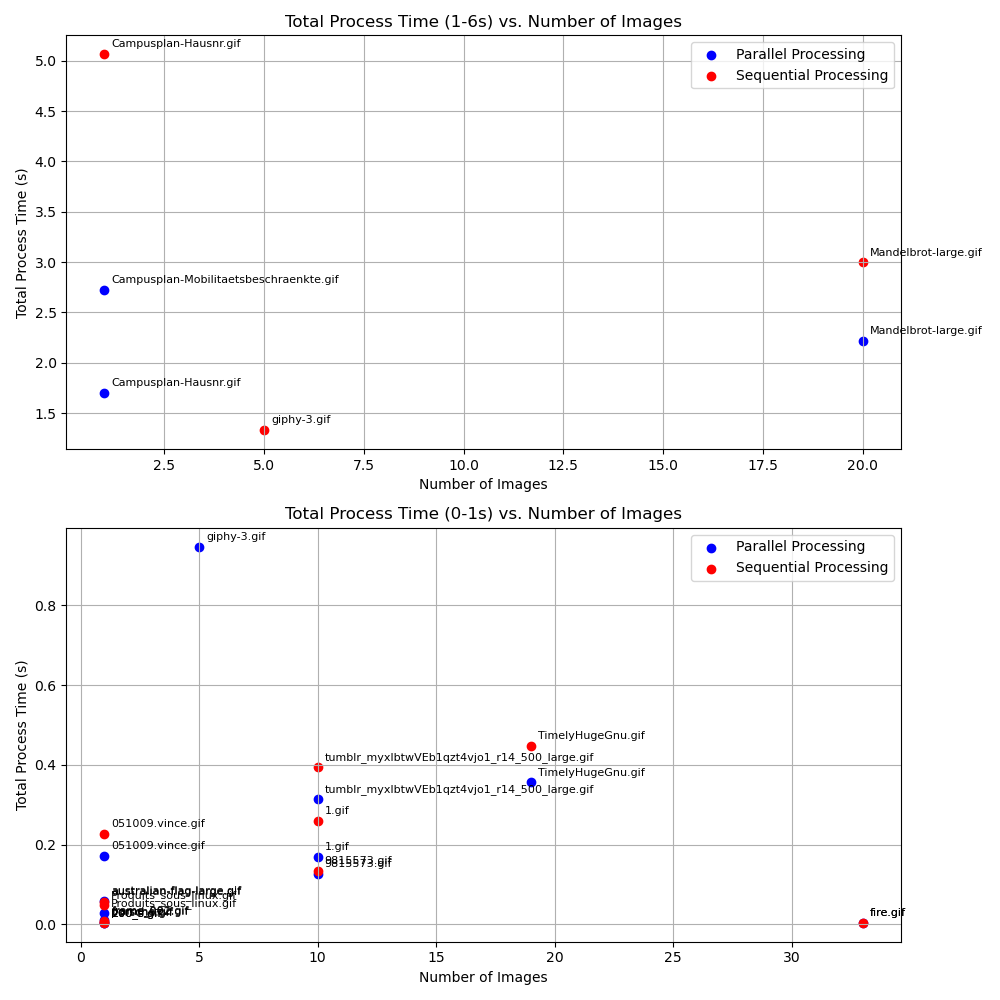
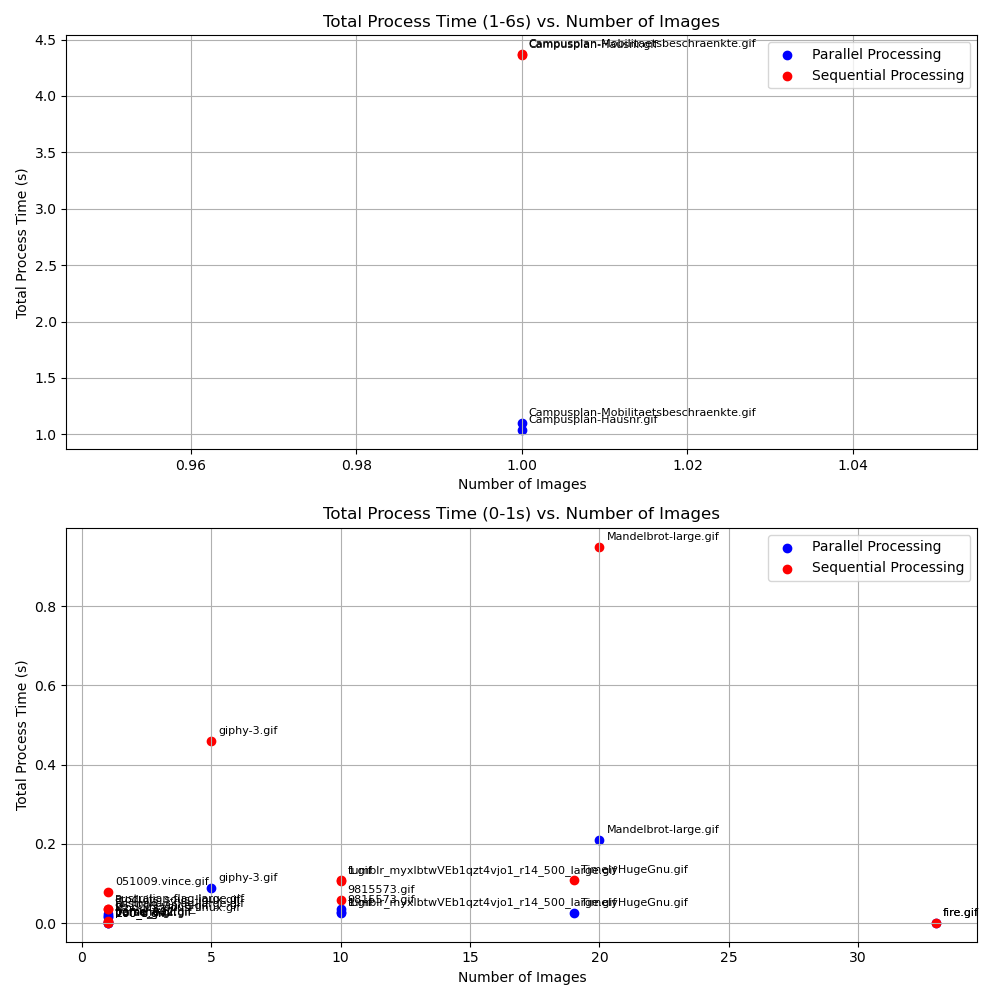
Modified layout of plots

diff --git a/plot.py b/plot.py
@@ -1,53 +1,250 @@
+# import pandas as pd
+# import matplotlib.pyplot as plt
+
+# # Load the CSV files
+# df_para = pd.read_csv("durations_para_OpenMP.csv")
+# df_seq = pd.read_csv("durations_seq.csv")
+
+# # Compute the full process time as the sum of all duration columns
+# duration_columns = ["Gray Filter Duration", "Blur Filter Duration", "Sobel Filter Duration"]
+# df_para["Total Process Time"] = df_para[duration_columns].sum(axis=1)
+# df_seq["Total Process Time"] = df_seq[duration_columns].sum(axis=1)
+
+# # Extract filenames without the full path
+# df_para["Image Name"] = df_para["Filename"].apply(lambda x: x.split("/")[-1])
+# df_seq["Image Name"] = df_seq["Filename"].apply(lambda x: x.split("/")[-1])
+
+# # Create subplots
+# fig, axes = plt.subplots(2, 1, figsize=(10, 10))
+
+# # Plot for process times between 1 and 6 seconds
+# df_para_filtered = df_para[(df_para["Total Process Time"] >= 1) & (df_para["Total Process Time"] <= 6)]
+# df_seq_filtered = df_seq[(df_seq["Total Process Time"] >= 1) & (df_seq["Total Process Time"] <= 6)]
+# axes[0].scatter(df_para_filtered["Number Images"], df_para_filtered["Total Process Time"], color='b', label="Parallel Processing")
+# axes[0].scatter(df_seq_filtered["Number Images"], df_seq_filtered["Total Process Time"], color='r', label="Sequential Processing")
+# for i, txt in enumerate(df_para_filtered["Image Name"]):
+#     axes[0].annotate(txt, (df_para_filtered["Number Images"].iloc[i], df_para_filtered["Total Process Time"].iloc[i]), fontsize=8, xytext=(5,5), textcoords='offset points')
+# for i, txt in enumerate(df_seq_filtered["Image Name"]):
+#     axes[0].annotate(txt, (df_seq_filtered["Number Images"].iloc[i], df_seq_filtered["Total Process Time"].iloc[i]), fontsize=8, xytext=(5,5), textcoords='offset points')
+# axes[0].set_xlabel("Number of Images")
+# axes[0].set_ylabel("Total Process Time (s)")
+# axes[0].set_title("Total Process Time (1-6s) vs. Number of Images")
+# axes[0].legend()
+# axes[0].grid()
+
+# # Plot for process times between 0 and 1 seconds
+# df_para_filtered = df_para[df_para["Total Process Time"] <= 1]
+# df_seq_filtered = df_seq[df_seq["Total Process Time"] <= 1]
+# axes[1].scatter(df_para_filtered["Number Images"], df_para_filtered["Total Process Time"], color='b', label="Parallel Processing")
+# axes[1].scatter(df_seq_filtered["Number Images"], df_seq_filtered["Total Process Time"], color='r', label="Sequential Processing")
+# for i, txt in enumerate(df_para_filtered["Image Name"]):
+#     axes[1].annotate(txt, (df_para_filtered["Number Images"].iloc[i], df_para_filtered["Total Process Time"].iloc[i]), fontsize=8, xytext=(5,5), textcoords='offset points')
+# for i, txt in enumerate(df_seq_filtered["Image Name"]):
+#     axes[1].annotate(txt, (df_seq_filtered["Number Images"].iloc[i], df_seq_filtered["Total Process Time"].iloc[i]), fontsize=8, xytext=(5,5), textcoords='offset points')
+# axes[1].set_xlabel("Number of Images")
+# axes[1].set_ylabel("Total Process Time (s)")
+# axes[1].set_title("Total Process Time (0-1s) vs. Number of Images")
+# axes[1].legend()
+# axes[1].grid()
+
+# # Adjust layout and save plot
+# plt.tight_layout()
+# plt.savefig("plot.png")
+# plt.close()
+
+
 import pandas as pd
 import matplotlib.pyplot as plt
+import os
+import numpy as np
 
 # Load the CSV files
 df_para = pd.read_csv("durations_para_OpenMP.csv")
 df_seq = pd.read_csv("durations_seq.csv")
 
-# Compute the full process time as the sum of all duration columns
-duration_columns = ["Import Duration", "Gray Filter Duration", "Blur Filter Duration", "Sobel Filter Duration", "Export Duration"]
+# Compute the full process time as the sum of filter duration columns
+duration_columns = ["Gray Filter Duration", "Blur Filter Duration", "Sobel Filter Duration"]
 df_para["Total Process Time"] = df_para[duration_columns].sum(axis=1)
 df_seq["Total Process Time"] = df_seq[duration_columns].sum(axis=1)
 
 # Extract filenames without the full path
-df_para["Image Name"] = df_para["Filename"].apply(lambda x: x.split("/")[-1])
-df_seq["Image Name"] = df_seq["Filename"].apply(lambda x: x.split("/")[-1])
+df_para["Image Name"] = df_para["Filename"].apply(lambda x: os.path.basename(x))
+df_seq["Image Name"] = df_seq["Filename"].apply(lambda x: os.path.basename(x))
 
-# Create subplots
-fig, axes = plt.subplots(2, 1, figsize=(10, 10))
+# Add OpenMP type if available
+if "Using_OpenMP" in df_para.columns:
+    df_para["Parallel Type"] = df_para["Using_OpenMP"].apply(
+        lambda x: "OpenMP (images)" if "on images" in str(x).lower() else 
+                 "OpenMP (pixels)" if "on pixels" in str(x).lower() else 
+                 "No OpenMP" if str(x).lower() == "no" else "OpenMP"
+    )
+else:
+    df_para["Parallel Type"] = "OpenMP"
 
-# Plot for process times between 1 and 6 seconds
+# Add thread count if available
+if "Number_Threads" in df_para.columns:
+    df_para["Threads"] = df_para["Number_Threads"]
+elif "Threads" in df_para.columns:
+    df_para["Threads"] = df_para["Threads"]
+else:
+    df_para["Threads"] = "Unknown"
+
+# Create subplots - now with 3 rows to include speedup
+fig, axes = plt.subplots(3, 1, figsize=(12, 15))
+
+# Plot 1: Process times between 1 and 6 seconds
 df_para_filtered = df_para[(df_para["Total Process Time"] >= 1) & (df_para["Total Process Time"] <= 6)]
 df_seq_filtered = df_seq[(df_seq["Total Process Time"] >= 1) & (df_seq["Total Process Time"] <= 6)]
-axes[0].scatter(df_para_filtered["Number Images"], df_para_filtered["Total Process Time"], color='b', label="Parallel Processing")
-axes[0].scatter(df_seq_filtered["Number Images"], df_seq_filtered["Total Process Time"], color='r', label="Sequential Processing")
+
+axes[0].scatter(df_para_filtered["Number Images"], df_para_filtered["Total Process Time"], 
+               color='b', label="OpenMP Processing")
+axes[0].scatter(df_seq_filtered["Number Images"], df_seq_filtered["Total Process Time"], 
+               color='r', label="Sequential Processing")
+
 for i, txt in enumerate(df_para_filtered["Image Name"]):
-    axes[0].annotate(txt, (df_para_filtered["Number Images"].iloc[i], df_para_filtered["Total Process Time"].iloc[i]), fontsize=8, xytext=(5,5), textcoords='offset points')
+    thread_info = f" ({df_para_filtered['Threads'].iloc[i]} threads)" if "Threads" in df_para_filtered.columns else ""
+    axes[0].annotate(f"{txt}{thread_info}", 
+                    (df_para_filtered["Number Images"].iloc[i], df_para_filtered["Total Process Time"].iloc[i]), 
+                    fontsize=8, xytext=(5,5), textcoords='offset points')
 for i, txt in enumerate(df_seq_filtered["Image Name"]):
-    axes[0].annotate(txt, (df_seq_filtered["Number Images"].iloc[i], df_seq_filtered["Total Process Time"].iloc[i]), fontsize=8, xytext=(5,5), textcoords='offset points')
+    axes[0].annotate(txt, 
+                    (df_seq_filtered["Number Images"].iloc[i], df_seq_filtered["Total Process Time"].iloc[i]), 
+                    fontsize=8, xytext=(5,5), textcoords='offset points')
+
 axes[0].set_xlabel("Number of Images")
 axes[0].set_ylabel("Total Process Time (s)")
-axes[0].set_title("Total Process Time (1-6s) vs. Number of Images")
+axes[0].set_title("Total Filter Process Time (1-6s) vs. Number of Images")
 axes[0].legend()
 axes[0].grid()
 
-# Plot for process times between 0 and 1 seconds
+# Plot 2: Process times between 0 and 1 seconds
 df_para_filtered = df_para[df_para["Total Process Time"] <= 1]
 df_seq_filtered = df_seq[df_seq["Total Process Time"] <= 1]
-axes[1].scatter(df_para_filtered["Number Images"], df_para_filtered["Total Process Time"], color='b', label="Parallel Processing")
-axes[1].scatter(df_seq_filtered["Number Images"], df_seq_filtered["Total Process Time"], color='r', label="Sequential Processing")
+
+axes[1].scatter(df_para_filtered["Number Images"], df_para_filtered["Total Process Time"], 
+               color='b', label="OpenMP Processing")
+axes[1].scatter(df_seq_filtered["Number Images"], df_seq_filtered["Total Process Time"], 
+               color='r', label="Sequential Processing")
+
 for i, txt in enumerate(df_para_filtered["Image Name"]):
-    axes[1].annotate(txt, (df_para_filtered["Number Images"].iloc[i], df_para_filtered["Total Process Time"].iloc[i]), fontsize=8, xytext=(5,5), textcoords='offset points')
+    thread_info = f" ({df_para_filtered['Threads'].iloc[i]} threads)" if "Threads" in df_para_filtered.columns else ""
+    axes[1].annotate(f"{txt}{thread_info}", 
+                    (df_para_filtered["Number Images"].iloc[i], df_para_filtered["Total Process Time"].iloc[i]), 
+                    fontsize=8, xytext=(5,5), textcoords='offset points')
 for i, txt in enumerate(df_seq_filtered["Image Name"]):
-    axes[1].annotate(txt, (df_seq_filtered["Number Images"].iloc[i], df_seq_filtered["Total Process Time"].iloc[i]), fontsize=8, xytext=(5,5), textcoords='offset points')
+    axes[1].annotate(txt, 
+                    (df_seq_filtered["Number Images"].iloc[i], df_seq_filtered["Total Process Time"].iloc[i]), 
+                    fontsize=8, xytext=(5,5), textcoords='offset points')
+
 axes[1].set_xlabel("Number of Images")
 axes[1].set_ylabel("Total Process Time (s)")
-axes[1].set_title("Total Process Time (0-1s) vs. Number of Images")
+axes[1].set_title("Total Filter Process Time (0-1s) vs. Number of Images")
 axes[1].legend()
 axes[1].grid()
 
-# Adjust layout and save plot
+# Plot 3: Speedup calculation and visualization
+# Merge datasets on Image Name to calculate speedup
+merged_data = pd.merge(
+    df_seq[["Image Name", "Total Process Time", "Number Images"]], 
+    df_para[["Image Name", "Total Process Time", "Parallel Type", "Threads", "Number Images"]], 
+    on="Image Name", 
+    suffixes=('_seq', '_para')
+)
+
+# Calculate speedup
+merged_data["Speedup"] = merged_data["Total Process Time_seq"] / merged_data["Total Process Time_para"]
+
+# Sort by speedup for better visualization
+merged_data = merged_data.sort_values("Speedup", ascending=False)
+
+# Create color palette based on number of images
+unique_img_counts = sorted(merged_data["Number Images_seq"].unique())
+cmap = plt.cm.viridis
+colors = [cmap(i/len(unique_img_counts)) for i, _ in enumerate(unique_img_counts)]
+color_map = {count: color for count, color in zip(unique_img_counts, colors)}
+
+# Bar chart of speedups with colored bars based on image count
+bar_positions = range(len(merged_data))
+bar_colors = [color_map[count] for count in merged_data["Number Images_seq"]]
+
+bars = axes[2].bar(bar_positions, merged_data["Speedup"], color=bar_colors)
+axes[2].set_xticks(bar_positions)
+axes[2].set_xticklabels(merged_data["Image Name"], rotation=90, fontsize=8)
+axes[2].set_ylabel("Speedup Factor (Sequential/OpenMP)")
+axes[2].set_title("Filter Performance Speedup with OpenMP Parallelization")
+axes[2].axhline(y=1, color='r', linestyle='--', label="Baseline (Sequential)")
+axes[2].grid(axis='y')
+
+# Add a color bar to show the image count scale
+sm = plt.cm.ScalarMappable(cmap=cmap, norm=plt.Normalize(min(unique_img_counts), max(unique_img_counts)))
+sm.set_array([])
+cbar = plt.colorbar(sm, ax=axes[2])
+cbar.set_label('Number of Images')
+
+# Add annotations with number of images and thread count
+for i, (_, row) in enumerate(merged_data.iterrows()):
+    thread_info = f"{row['Threads']} threads" if row['Threads'] != "Unknown" else ""
+    axes[2].annotate(f"{int(row['Number Images_seq'])} imgs\n{thread_info}\n{row['Speedup']:.1f}x", 
+                   (i, row["Speedup"]), 
+                   ha='center', va='bottom', fontsize=7)
+
+# Add average speedup line
+avg_speedup = merged_data["Speedup"].mean()
+axes[2].axhline(y=avg_speedup, color='g', linestyle='-.', 
+               label=f"Avg Speedup: {avg_speedup:.2f}x")
+axes[2].legend()
+
+# Add detailed analysis by thread count if available
+if "Threads" in merged_data.columns and merged_data["Threads"].nunique() > 1:
+    # Create a separate figure for thread-based analysis
+    plt.figure(figsize=(10, 6))
+    thread_analysis = merged_data.groupby("Threads")["Speedup"].agg(["mean", "min", "max"]).reset_index()
+    thread_analysis = thread_analysis.sort_values("Threads")
+    
+    x = range(len(thread_analysis))
+    plt.bar(x, thread_analysis["mean"], yerr=[
+        thread_analysis["mean"] - thread_analysis["min"], 
+        thread_analysis["max"] - thread_analysis["mean"]
+    ], capsize=10, color='skyblue', width=0.6)
+    
+    plt.xticks(x, thread_analysis["Threads"])
+    plt.xlabel("Number of Threads")
+    plt.ylabel("Average Speedup Factor")
+    plt.title("OpenMP Performance by Thread Count")
+    plt.grid(axis='y')
+    
+    # Add value labels on top of bars
+    for i, row in enumerate(thread_analysis.itertuples()):
+        plt.text(i, row.mean, f"{row.mean:.2f}x", ha='center', va='bottom')
+    
+    plt.tight_layout()
+    plt.savefig("openmp_thread_analysis.png", dpi=300)
+
+# Adjust layout and save main plot
+plt.figure(fig.number)  # Switch back to main figure
 plt.tight_layout()
-plt.savefig("plot.png")
-plt.close()
+plt.savefig("openmp_performance_comparison.png", dpi=300)
+
+# Create a focused view of top speedups
+plt.figure(figsize=(10, 6))
+top_speedups = merged_data.head(min(10, len(merged_data)))  # Top 10 or all if fewer
+    
+x = range(len(top_speedups))
+plt.bar(x, top_speedups["Speedup"], color=bar_colors[:len(top_speedups)])
+plt.xticks(x, top_speedups["Image Name"], rotation=45, ha='right')
+plt.xlabel("Image")
+plt.ylabel("Speedup Factor")
+plt.title("Top OpenMP Performance Speedups")
+plt.axhline(y=1, color='r', linestyle='--', label="Baseline (Sequential)")
+plt.grid(axis='y')
+    
+for i, (_, row) in enumerate(top_speedups.iterrows()):
+    thread_info = f"{row['Threads']} threads" if row['Threads'] != "Unknown" else ""
+    plt.text(i, row["Speedup"], 
+            f"{int(row['Number Images_seq'])} imgs\n{thread_info}\n{row['Speedup']:.2f}x", 
+            ha='center', va='bottom', fontsize=8)
+    
+plt.tight_layout()
+plt.savefig("top_openmp_speedups.png", dpi=300)
+
+plt.close('all')
